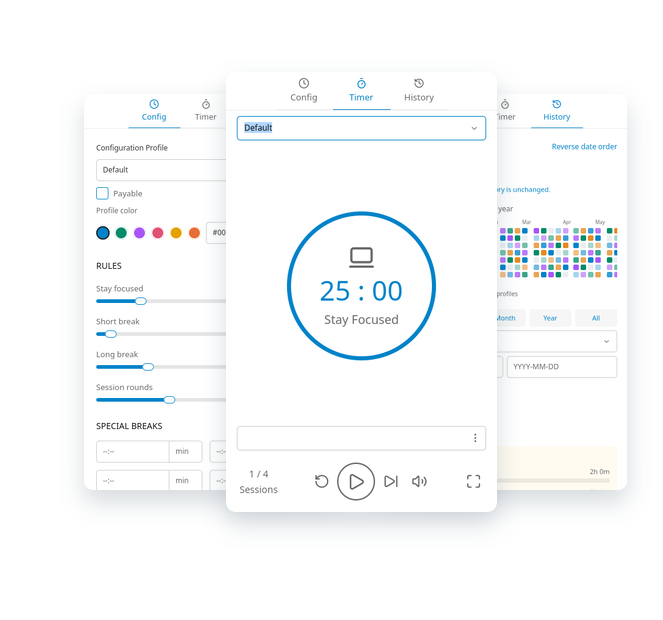
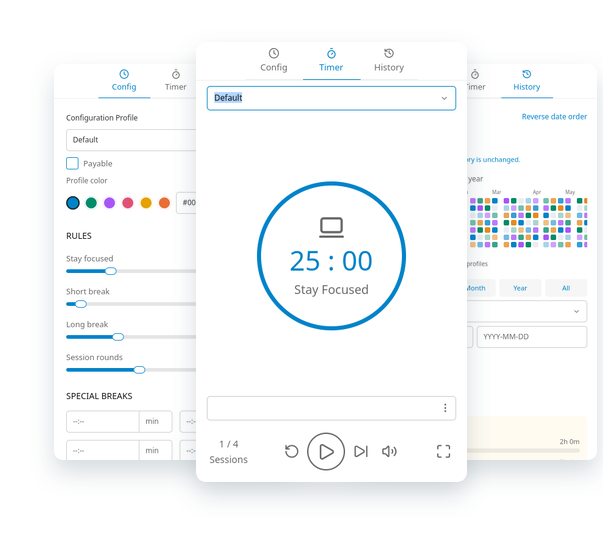
fix: better readme.md

diff --git a/.github/scripts/generate_preview.py b/.github/scripts/generate_preview.py
@@ -36,7 +36,7 @@ def generate(
     output: Path,
     height: int = 440,
     overlap: float = 0.42,
-    padding: int = 60,
+    padding: int = 30,
     gap: int = 45,
 ) -> None:
     """Input order is left to right; the middle screenshot is in front."""
@@ -93,7 +93,7 @@ def generate(
         row_height = height + 60
         canvas_height = padding * 2 + len(rows) * row_height + (len(rows) - 1) * gap
         canvas = temp / "canvas.png"
-        run("-size", f"{canvas_width}x{canvas_height}", "xc:white", "-type", "TrueColor", f"PNG24:{canvas}")
+        run("-size", f"{canvas_width}x{canvas_height}", "xc:none", "-type", "TrueColorMatte", f"PNG32:{canvas}")
         for row_index, (row_width, cards) in enumerate(layouts):
             left = padding + (canvas_width - padding * 2 - row_width) // 2
             top = padding + row_index * (row_height + gap)
@@ -199,7 +199,7 @@ def main(argv: Sequence[str] | None = None) -> int:
     parser.add_argument("--output", type=Path, default=ROOT / ".github/assets/preview.png")
     parser.add_argument("--height", type=positive, default=440, help="front screenshot height (default: 440)")
     parser.add_argument("--overlap", type=float, default=0.42, help="overlap fraction, 0–0.75 (default: 0.42)")
-    parser.add_argument("--padding", type=positive, default=60)
+    parser.add_argument("--padding", type=positive, default=30)
     parser.add_argument("--gap", type=positive, default=45, help="space between rows")
     parser.add_argument("--update-readme", action="store_true",
                         help="replace the README illustration with the generated screenshot preview")

diff --git a/.github/scripts/test_generate_preview.py b/.github/scripts/test_generate_preview.py
@@ -42,7 +42,7 @@ class PreviewTests(unittest.TestCase):
                 ).split()
                 self.assertEqual(result[0], "PNG")
                 self.assertGreater(int(result[1]), 200)
-                self.assertEqual(int(result[2]), 120 + len(rows) * 220 + (len(rows) - 1) * 45)
+                self.assertEqual(int(result[2]), 60 + len(rows) * 220 + (len(rows) - 1) * 45)
             self.assertEqual(original, [p.read_bytes() for p in images])
             with self.assertRaisesRegex(ValueError, "overwrite"):
                 preview.generate([images], images[0])

diff --git a/README.md b/README.md
@@ -67,7 +67,7 @@
 
 - **Local persistence** — profiles, settings, schedules, and completed sessions are saved in a local SQLite database.
 
-- **Native desktop tray support** — native-backend builds can keep working when you close the window to the tray. **Packaged GPUI releases currently exit when their window closes**; keep the window open for timers and scheduled breaks to continue.
+- **Native desktop tray support** — packaged desktop builds keep working when you close the window to the system tray or menu bar. Timers and scheduled breaks continue while the window is hidden.
 
 ## :computer: Installation
 
@@ -85,7 +85,7 @@ Download a package for your system from the **[latest release](https://github.co
 
 Every download includes a SHA-256 checksum. See the [installation and verification guide](docs/technical-guide.md#install-and-verify) for details and platform limitations.
 
-> **Keep the app open:** release packages use the GPUI backend, which does not currently support close-to-tray. A closed app cannot run timers or scheduled breaks.
+> **Background operation:** closing the window hides the app to the system tray or macOS menu bar when a tray host is available. On Linux, a StatusNotifier-compatible tray host is required; if unavailable, closing exits normally.
 
 ## :hammer_and_wrench: Development
 
